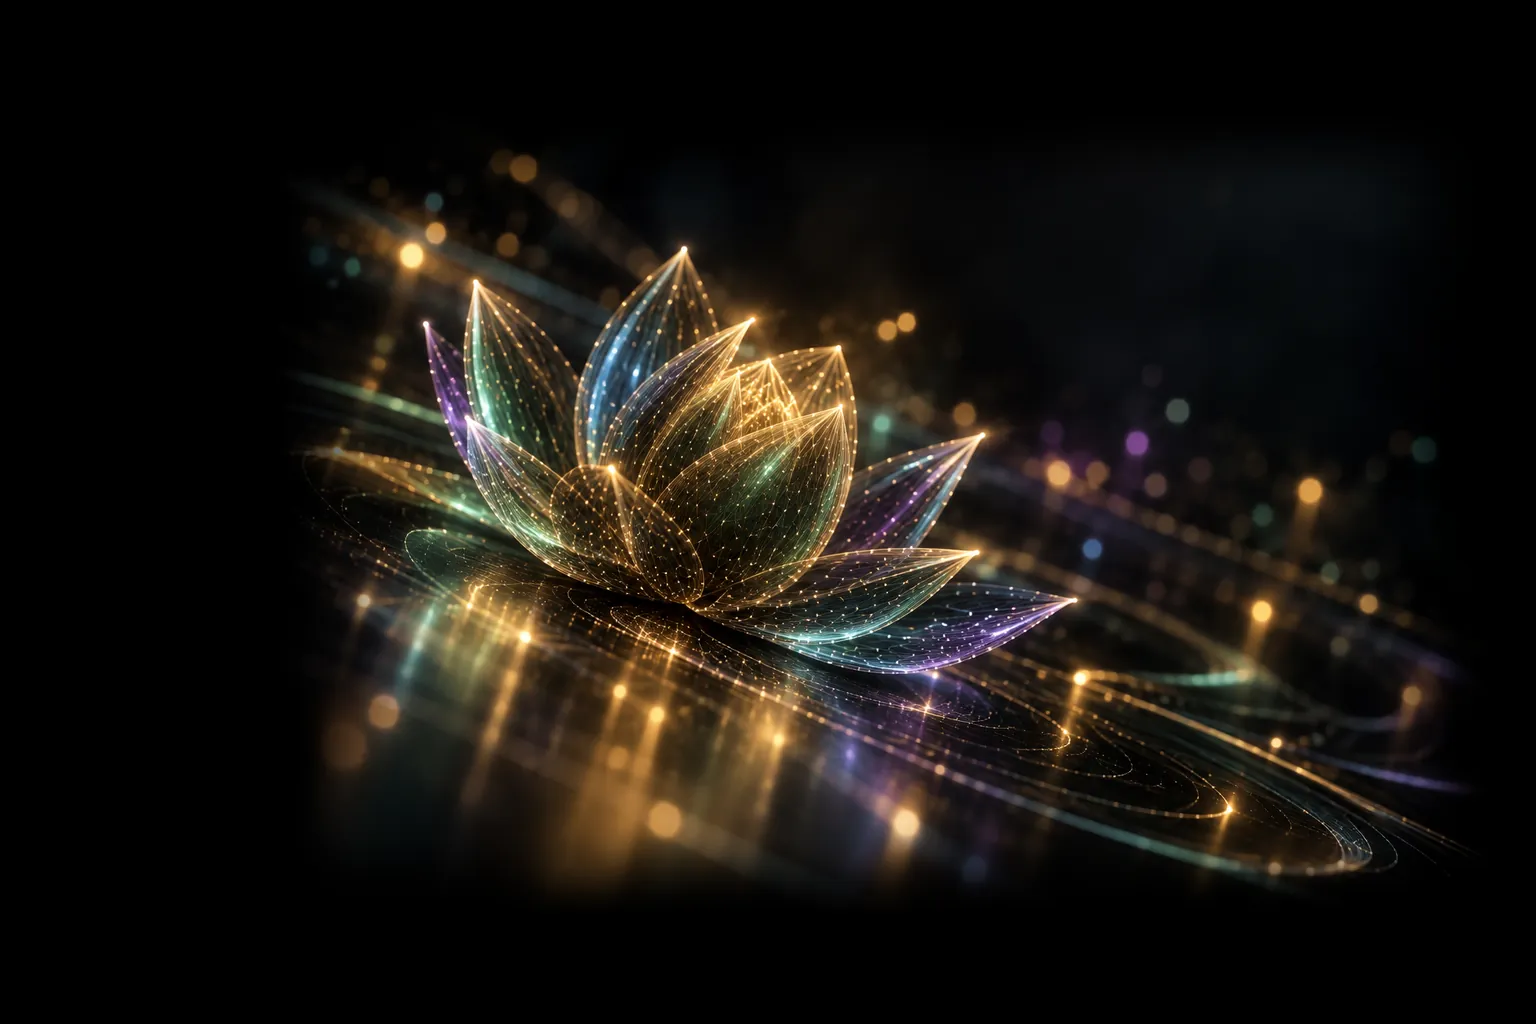
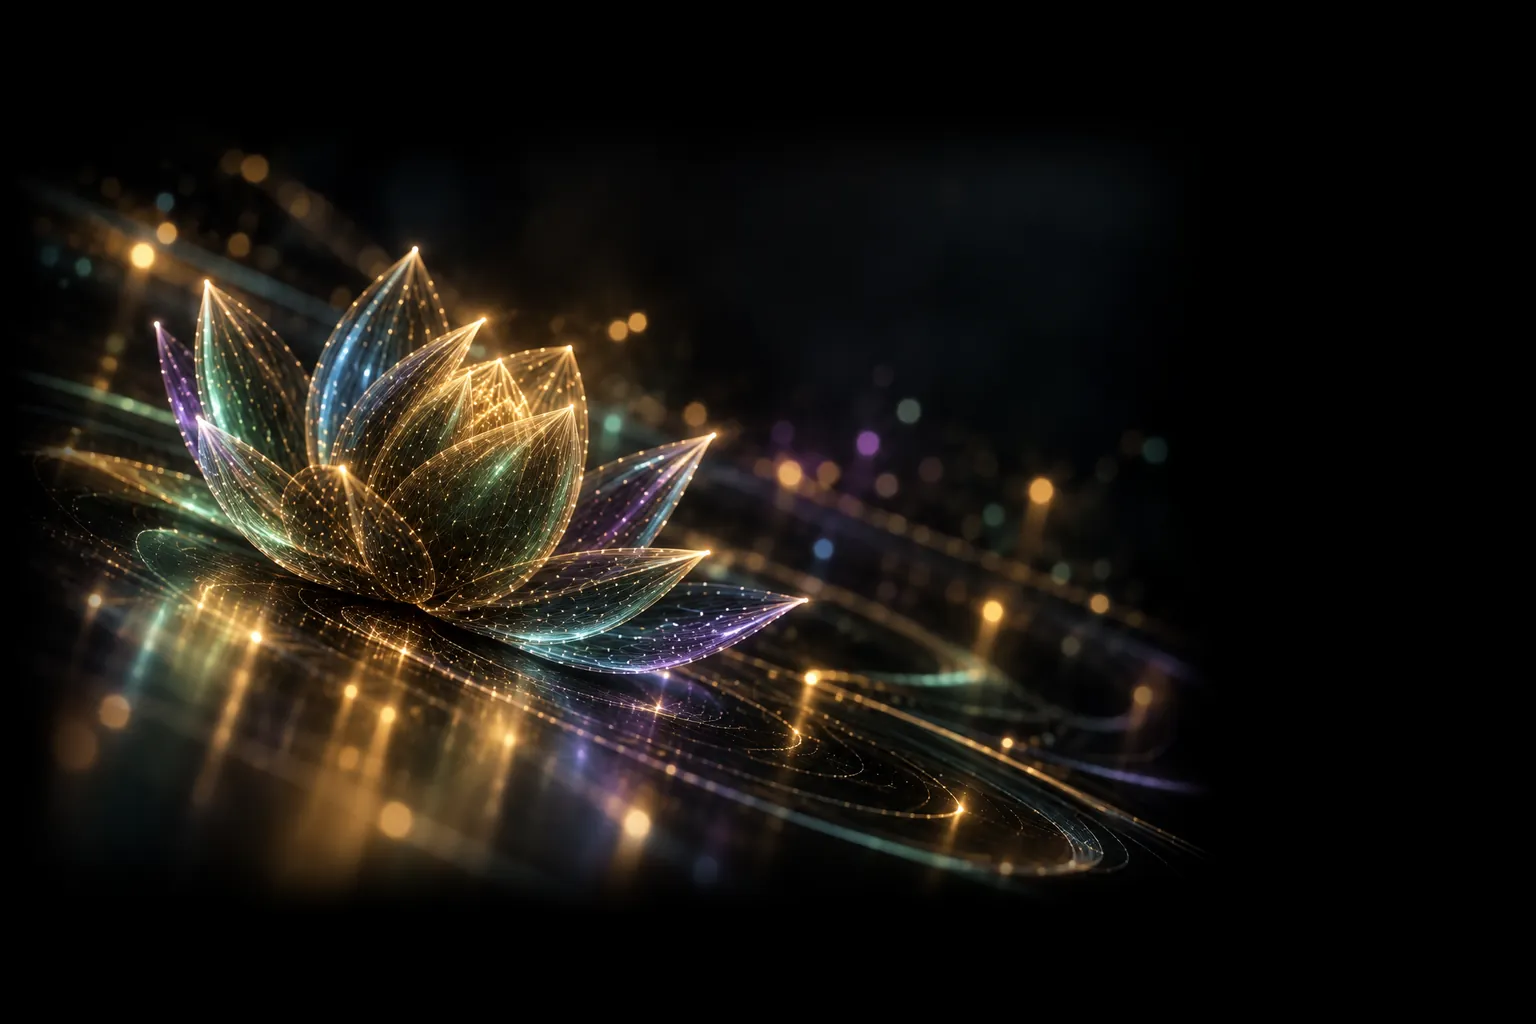
Move the homepage background render further left

diff --git a/src/app/globals.css b/src/app/globals.css
@@ -84,7 +84,7 @@ body {
   /* The original backdrop has no scrim, so it keeps its old 0.4 on phones. */
   .site-bg-layer--default.is-active { opacity: 0.67; }
   .site-bg-layer--default { background-position: 70% 100%; }
-  .site-bg-layer--home { background-position: 34% 58%; }
+  .site-bg-layer--home { background-position: 18% 58%; }
   .site-bg-layer--about { background-position: 72% 58%; }
   .site-bg-layer--craft,
   .site-bg-layer--work { background-position: 66% 58%; }
